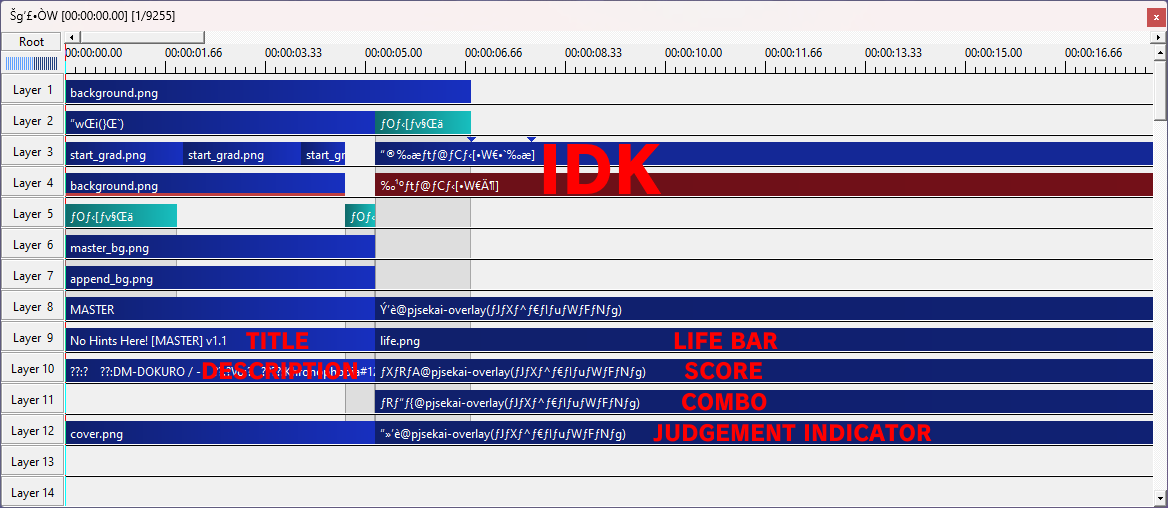
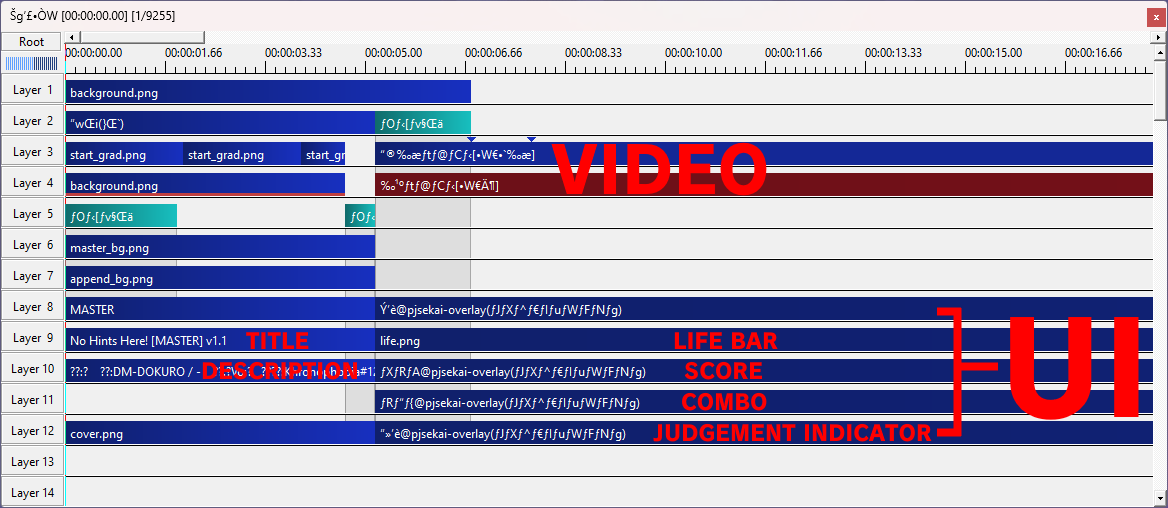
Rewrite Part 3

Changed region(s): [[0.8014, 0.5906, 0.9863, 0.8563], [0.4623, 0.2657, 0.6781, 0.3839]]

diff --git a/README.md b/README.md
@@ -15,7 +15,7 @@ Make sure to have the following before following this guide.
 I won't tell you how to obtain all of the above. You're on your own for this one.
 
 ## Instructions
-### Part One: Installation
+### Part 1: Installation
 1. Download [AviUtl v1.10](https://spring-fragrance.mints.ne.jp/aviutl/aviutl110.zip) and extract it somewhere
 2. Download [patch.aul](https://github.com/ePi5131/patch.aul/releases/tag/r42) and [English Patch](https://github.com/sykhro/aviutl-english-patch/releases/latest) and extract it in the same location
 3. Download [easymp4](https://aoytsk.blog.jp/aviutl/easymp4.zip) and extract it to `plugins` (Create the folder if it's not available)
@@ -28,7 +28,8 @@ I won't tell you how to obtain all of the above. You're on your own for this one
    **Plugins folder**\
    ![Plugins folder](images/pluginsdirectory.png)
 8. Download [pjsekai-overlay](https://github.com/sevenc-nanashi/pjsekai-overlay/releases/latest) and extract it anywhere
-### Part Two: Setting Up a Project
+
+### Part 2: Setting Up a Project
 **NOTE:** From this point on, some images may have text containing weird symbols. I'm not sure why, but I suspect it's because my system language isn't set to Japanese. This may or may not be the case for you.
 1. Launch AviUtl
 2. Launch pjsekai-overlay
@@ -39,41 +40,36 @@ I won't tell you how to obtain all of the above. You're on your own for this one
 5. This screen tells you whether to enable the AP indicator. Type Y for yes and N for no\
 ![](images/apindicator.png)
 6. (Only applicable to pjsekai-overlay v0.3.2 and below. Skip if on v0.3.3 and above)\
-   In the AviUtl directory, there should be a folder named `script` containing `@pjsekai-overlay.obj`. It's in the wrong spot. Move it inside `plugins`
-7. On AviUtl, go to the `Filters+` tab and click on the option below `Advanced color correction...` (highlighted in red). This will open the Extended Editor\
+In the AviUtl directory, there should be a folder named `script` containing `@pjsekai-overlay.obj`. It's in the wrong spot. Move it inside `plugins`
+7. Go back to AviUtl and click on the first tab at the top. Hover over the 2nd option from the bottom and select the option with Language in it. Change it to English and restart AviUtl\
+![](images/changelanguage.png)\
+![](images/changelanguage2.png)
+8. Go to the `Filters+` tab and click on the option below `Advanced color correction...` (highlighted in red). This will open the Extended Editor\
 ![](images/openexedit.png)
-8. On the new window, right click on the timeline and click the first option (highlighted in red). This will create a new project. Set the resolution to 1280x720 and FPS to 60\
+9. On the new window, right click on the timeline and click the first option (highlighted in red). This will create a new project. Set the resolution to 1280x720 and FPS to 60\
 ![](images/createnewproject.png)
-9. Right click on the timeline once again and select the option highlighted below\
+10. Right click on the timeline once again and select the option highlighted below\
 ![](images/importexo.png)
-10. A file explorer window should pop up. Navigate to your pjsekai-overlay directory, and then dist/[chart id] and select `main.exo`
-### Part Three: Editing
-**NOTE:** I'm considering rewriting this part soon™ because I *think* I figured out what you're actually supposed to do. The steps below may be suboptimal.
+11. A file explorer window should pop up. Navigate to your pjsekai-overlay directory, and then dist/[chart id] and select `main.exo`
 
-If you have experience with video editors of any kind, this section will be significantly easier. Something like this should pop up after you imported `main.exo`. I added red text to label what is what.\
+### Part 3: Editing
+This is where the fun part starts. Refer to [this](AviUtl-Reference.md) if you ever get confused. If you have experience with video editors of any kind, this section should be significantly easier.
+
+Something like this should pop up after you imported `main.exo`. I added red text to label what is what.\
 ![](images/timelineguide.png)
 
-When you right-click on one of them (from now on, I'll refer to them as clips) a menu will appear. This is what most of them do:\
-![](images/rightclickguide.png)\
-(Anything I haven't labeled means I haven't tested or have no clue what it does)
+Double click on the object I labeled `VIDEO` and change it to the video you recorded. Set 'X' to '0' and 'Scale' to '100'.
 
-Double clicking on a clip will open a window where you can modify them.
-
-Right clicking on the timeline will open a menu. This is what some of them do:\
-![](images/timelinerightclick.png)
-
-On the original AviUtl window, you should see the PJSekai UI appear like this:\
-![](images/window.png)\
-Add your recorded video by dragging it into the Extended Editor window. Put it in Layer 5 or so. Make sure to line up the video with the combo.
-
-Depending on the chart, the UI might stop early (or keep going even if the chart already ended). In this case resize the clips highlighted in red and drag the clips highlighted in green to match the recorded video. (I'm not sure about the one highlighted in purple. In my testing I find that it does nothing.)\
+Depending on the chart, the video and UI might stop early or keep going even if the chart already ended. If this is the case, resize the objects highlighted in red and drag the objects highlighted in green until it matches the end of the video. Be sure to drag the end keyframe (blue arrow) on the video as well.\
 ![](images/clipdrag.png)
 
-Once everything is satisfactory, click on File in the AviUtl window and select either `Export with AVI`, or hover over `Export with Plugin` and select the highlighted option (with MP4 in the name). Everything from then on should (hopefully) be straightforward.\
+Make any modifications as needed. Once everything is satisfactory, move on to Part 4.
+
+### Part 4: Exporting
+1. To ensure that the exported video doesn't end too short or goes on for too long, right click on the timeline and set the video end to the furthest object
+2. Click on File in the AviUtl window and select either `Export with AVI`, or hover over `Export with Plugin` and select the highlighted option (with MP4 in the name). Everything from then on should (hopefully) be straightforward.\
 ![](images/export.png)
 
 ## Problems and Answers
 ### The fonts looks off/incorrect
 Project Sekai uses `FOT-ロダンNTLG Pro EB` and `FOT-ロダンNTLG Pro DB` as its fonts. If you don't have it installed on your system, AviUtl will use another font. Find the correct fonts on Google.
-### The video ends too early/goes on for too long
-Right click on the timeline and refer to [Part Three](#part-three-editing).

diff --git a/AviUtl-Reference.md b/AviUtl-Reference.md
@@ -1,0 +1,12 @@
+# AviUtl Reference
+Picture guide of what does what in AviUtl, primarily the Extended Editor. If anything is missing, that means I haven't tested it or have no idea what it does even after testing.
+## Timeline Right Click
+![](images/aviutlreference/timelinerightclick.png)
+### Set Video End
+![](images/aviutlreference/timelinerightclick_videoend.png)
+## Object Right Click
+![](images/aviutlreference/rightclickguide.png)
+## Object Double Click
+![](images/aviutlreference/doubleclickobject.png)
+### Easing?
+![](images/aviutlreference/easing.png)
